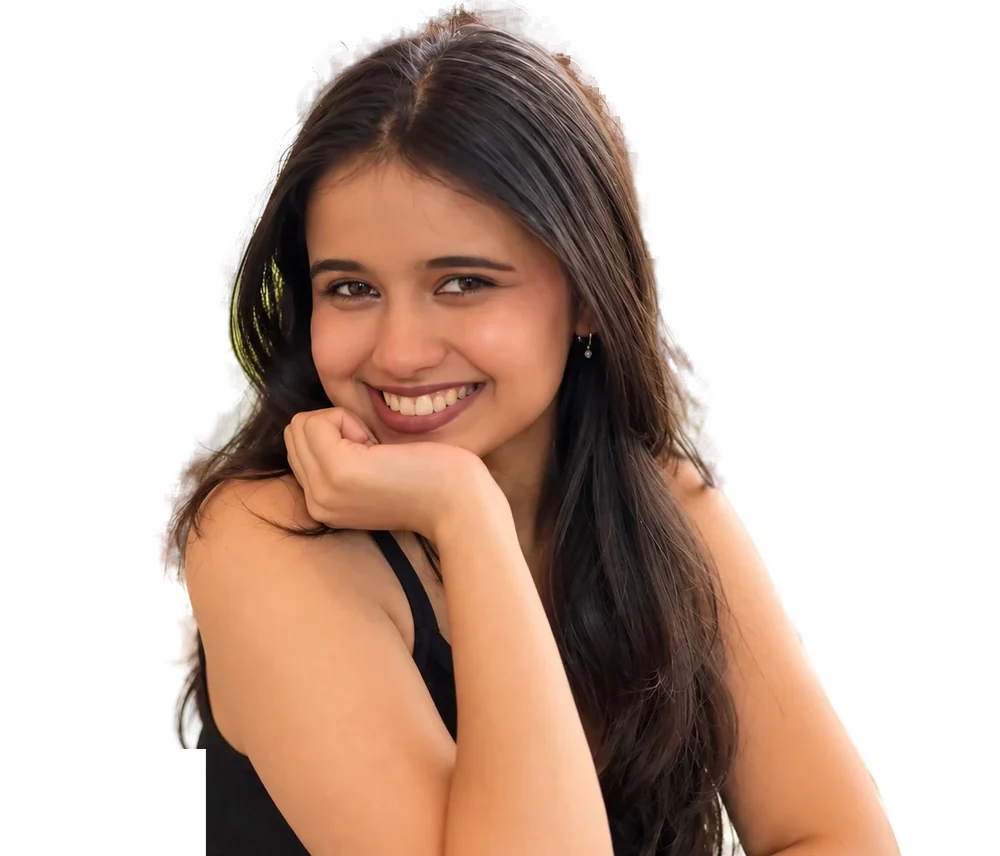
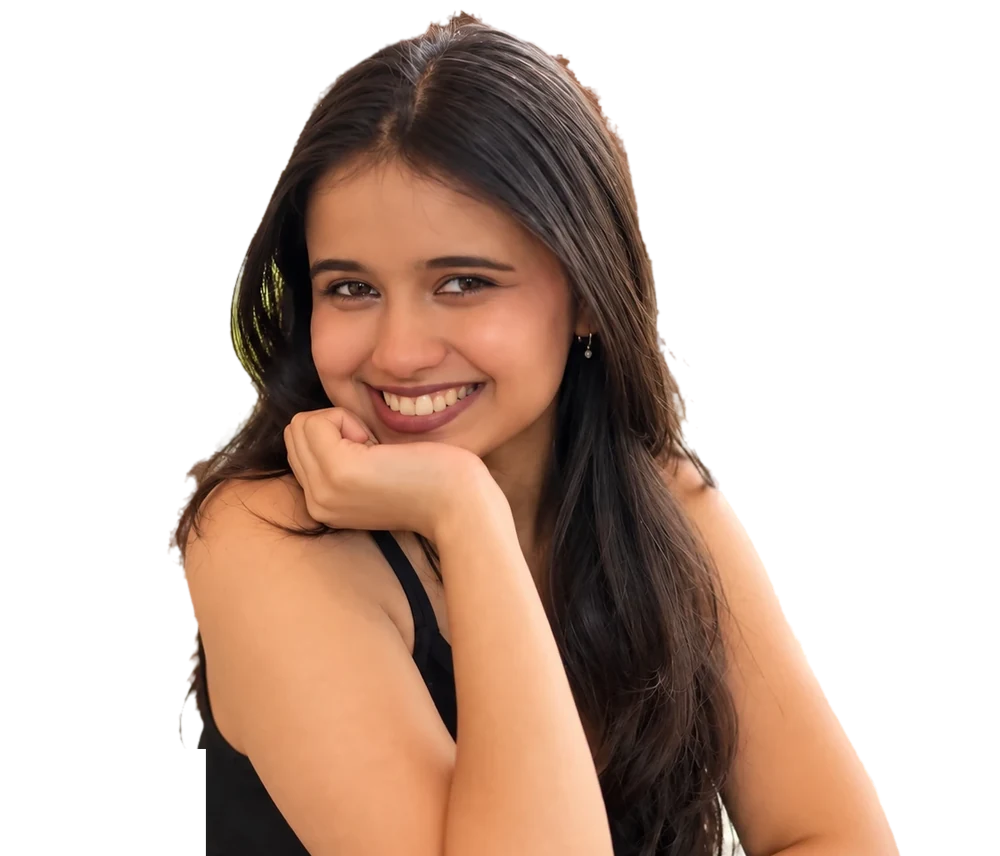
Calmer type scale, Home hero fits one screen, tighter page ends, cleaner hero cut-out
Claude-Session: https://claude.ai/code/session_01TScF66sDRrryRG9Fx7dmL7

diff --git a/src/styles/global.css b/src/styles/global.css
@@ -25,10 +25,10 @@
   --font-body: 'DM Sans', 'Helvetica Neue', Arial, sans-serif;
   --font-hand: 'Caveat', 'Bradley Hand', 'Segoe Print', cursive;
 
-  --fs-page: clamp(2.75rem, 1.6rem + 3.6vw, 4.75rem);      /* 44 → 76 */
-  --fs-section: clamp(2rem, 1.35rem + 2vw, 3.25rem);       /* 32 → 52 */
-  --fs-h3: clamp(1.5rem, 1.2rem + 0.9vw, 2.125rem);        /* 24 → 34 */
-  --fs-body: clamp(1.0625rem, 1rem + 0.15vw, 1.125rem);    /* 17 → 18 */
+  --fs-page: clamp(2.5rem, 1.5rem + 3.1vw, 4.1rem);        /* ~38 → 62 */
+  --fs-section: clamp(1.8rem, 1.25rem + 1.7vw, 2.8rem);    /* ~27 → 42 */
+  --fs-h3: clamp(1.4rem, 1.15rem + 0.75vw, 1.85rem);       /* ~21 → 28 */
+  --fs-body: clamp(1rem, 0.96rem + 0.12vw, 1.0625rem);     /* ~15 → 16 */
   --fs-small: 0.8125rem;                                   /* 13 */
   --fs-hand: clamp(1.2rem, 1.1rem + 0.35vw, 1.45rem);      /* ~19-23 */
 
@@ -38,7 +38,7 @@
   --col-gap: 24px;
   --measure: 640px;
 
-  --space-section: clamp(88px, 6rem + 3vw, 152px);
+  --space-section: clamp(72px, 5rem + 2.4vw, 120px);
   --space-inner: clamp(32px, 2rem + 1.5vw, 60px);
   --pad-panel: clamp(22px, 1.25rem + 1vw, 34px);
 
@@ -55,7 +55,7 @@
 
 /* ---------- reset ---------- */
 *, *::before, *::after { box-sizing: border-box; }
-html { -webkit-text-size-adjust: 100%; scroll-behavior: smooth; scroll-padding-top: 96px; }
+html { font-size: 93.75%; -webkit-text-size-adjust: 100%; scroll-behavior: smooth; scroll-padding-top: 96px; }
 body, h1, h2, h3, h4, p, figure, blockquote, ul, ol, dl, dd { margin: 0; }
 ul[role='list'], ol[role='list'] { list-style: none; padding: 0; }
 img, svg { display: block; max-width: 100%; }
@@ -152,7 +152,7 @@ p { text-wrap: pretty; }
 }
 
 .section { padding-block: var(--space-section) 0; }
-.section:last-child { padding-bottom: var(--space-section); }
+.section:last-child { padding-bottom: clamp(48px, 4vw, 64px); }
 .stack > * + * { margin-top: var(--stack, 1rem); }
 
 .visually-hidden {
